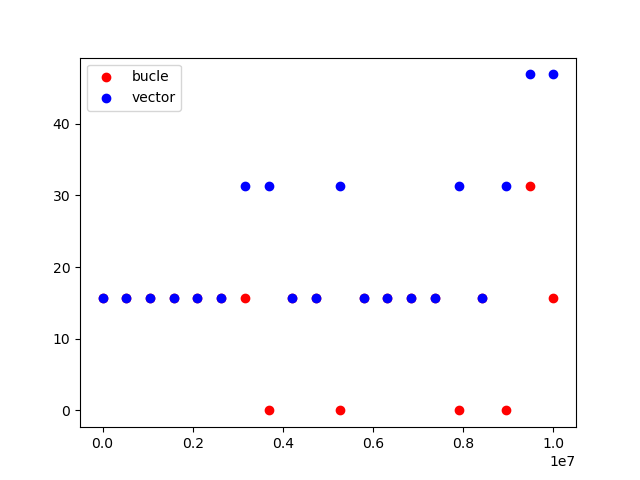
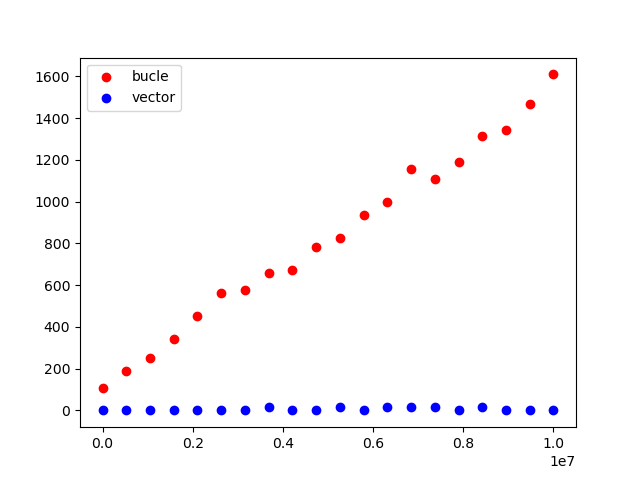
Practica0 - Terminada

diff --git a/PRACTICA 0/p0.py b/PRACTICA 0/p0.py
@@ -4,14 +4,17 @@ import random as rd
 import matplotlib.pyplot as plt
 
 def compara_tiempos():
+    puntos = 8000
+    puntos_totales = 10000
     sizes = np.linspace(100, 10000000, 20)
     times_buc = []
     times_vec = []
     for size in sizes:
-        x1 = np.random.uniform(1, 100, int(size))
-        x2 = np.random.uniform(1, 100, int(size))
-        times_buc += [integra_mc_buc(funcion, x1, x2)]
-        times_vec += [integra_mc_vec(funcion, x1, x2)]
+        x1 = np.random.uniform(1, 100)
+        x2 = np.random.uniform(1, 100)
+        times_buc += [integra_mc_buc(funcion, x1, x2, puntos_totales)]
+        times_vec += [integra_mc_vec(funcion, x1, x2, puntos_totales)]
+        puntos_totales += puntos
     
     plt.figure()
     plt.scatter(sizes, times_buc, c='red', label='bucle')
@@ -30,8 +33,8 @@ def integra_mc_buc(fun, a, b, num_puntos=10000):
     areaRectangulo = (b - a) * maximo
     nDebajo = 0
     for i in range(num_puntos):
-        x = round(rd.uniform(a, b))
-        y = round(rd.uniform(a, b))
+        x = round(np.random.uniform(a, b))
+        y = round(np.random.uniform(0, maximo))
         if y < fun(x):
             nDebajo = nDebajo + 1
     
@@ -48,8 +51,8 @@ def integra_mc_vec(fun, a, b, num_puntos=10000):
     maximo = fun(b)
     areaRectangulo = (b - a) * maximo
     arrX = np.random.uniform(a, b + 1, num_puntos)
-    arrY = np.random.uniform(a, b + 1, num_puntos)
-    nDebajo = sum(arrY < fun(arrX))
+    arrY = np.random.uniform(0, maximo + 1, num_puntos)
+    nDebajo = np.sum(arrY < fun(arrX))
     I = (nDebajo / num_puntos) * areaRectangulo
     print(I)
     toc = time.process_time()
@@ -58,6 +61,4 @@ def integra_mc_vec(fun, a, b, num_puntos=10000):
     #print('Tiempo de ejecucion en vector: ' + str(tiempoEjecucion) + '\n' + 'Resultado integral: ' + str((nDebajo / num_puntos) * areaRectangulo))
     return 1000 * (toc - tic)
 
-print(integra_mc_buc(funcion, 0, 100))
-print(integra_mc_vec(funcion, 0, 100))
 compara_tiempos()
